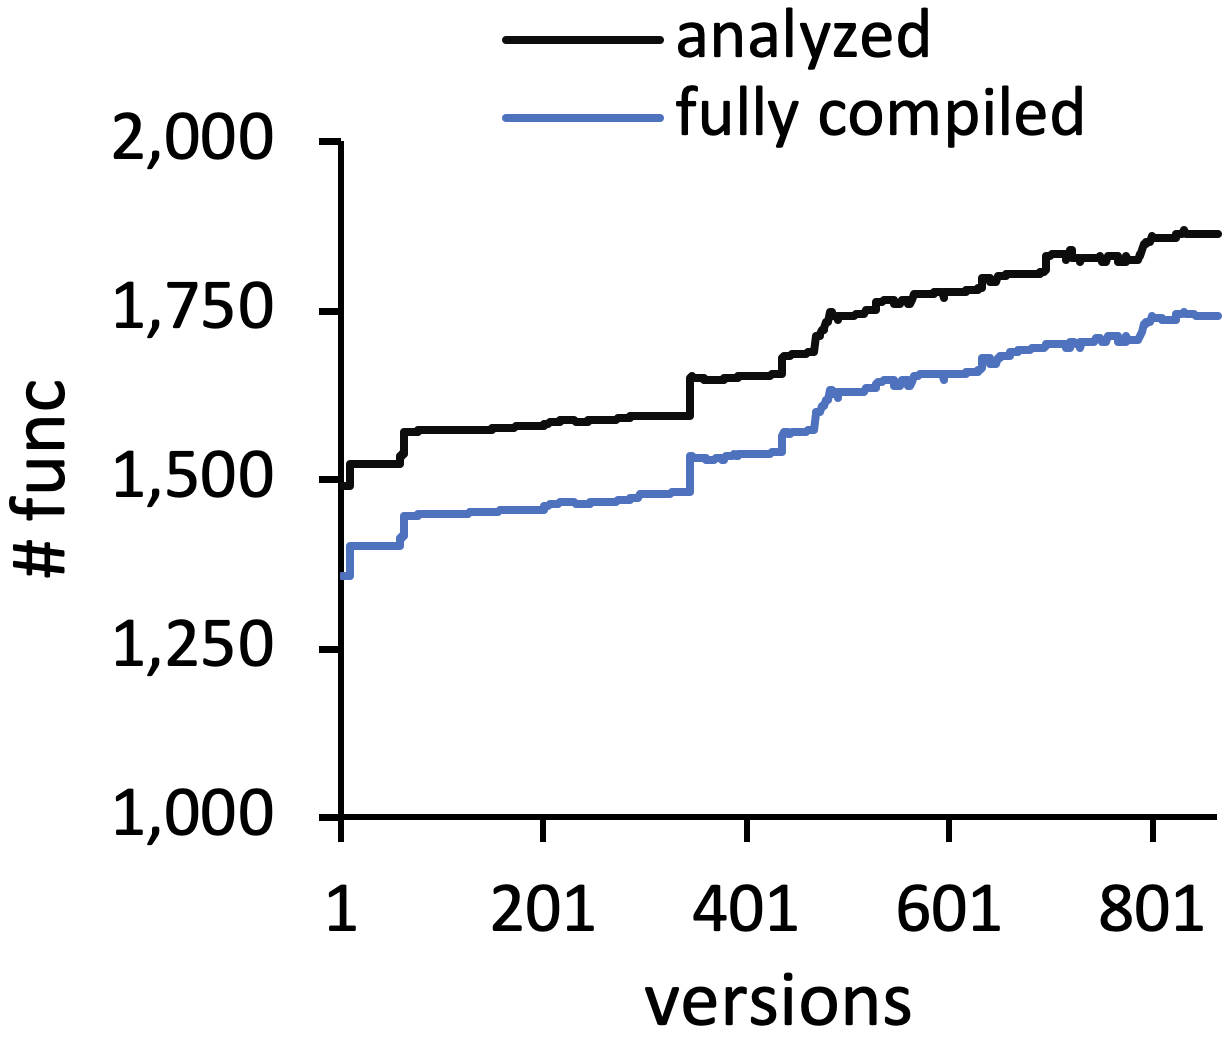
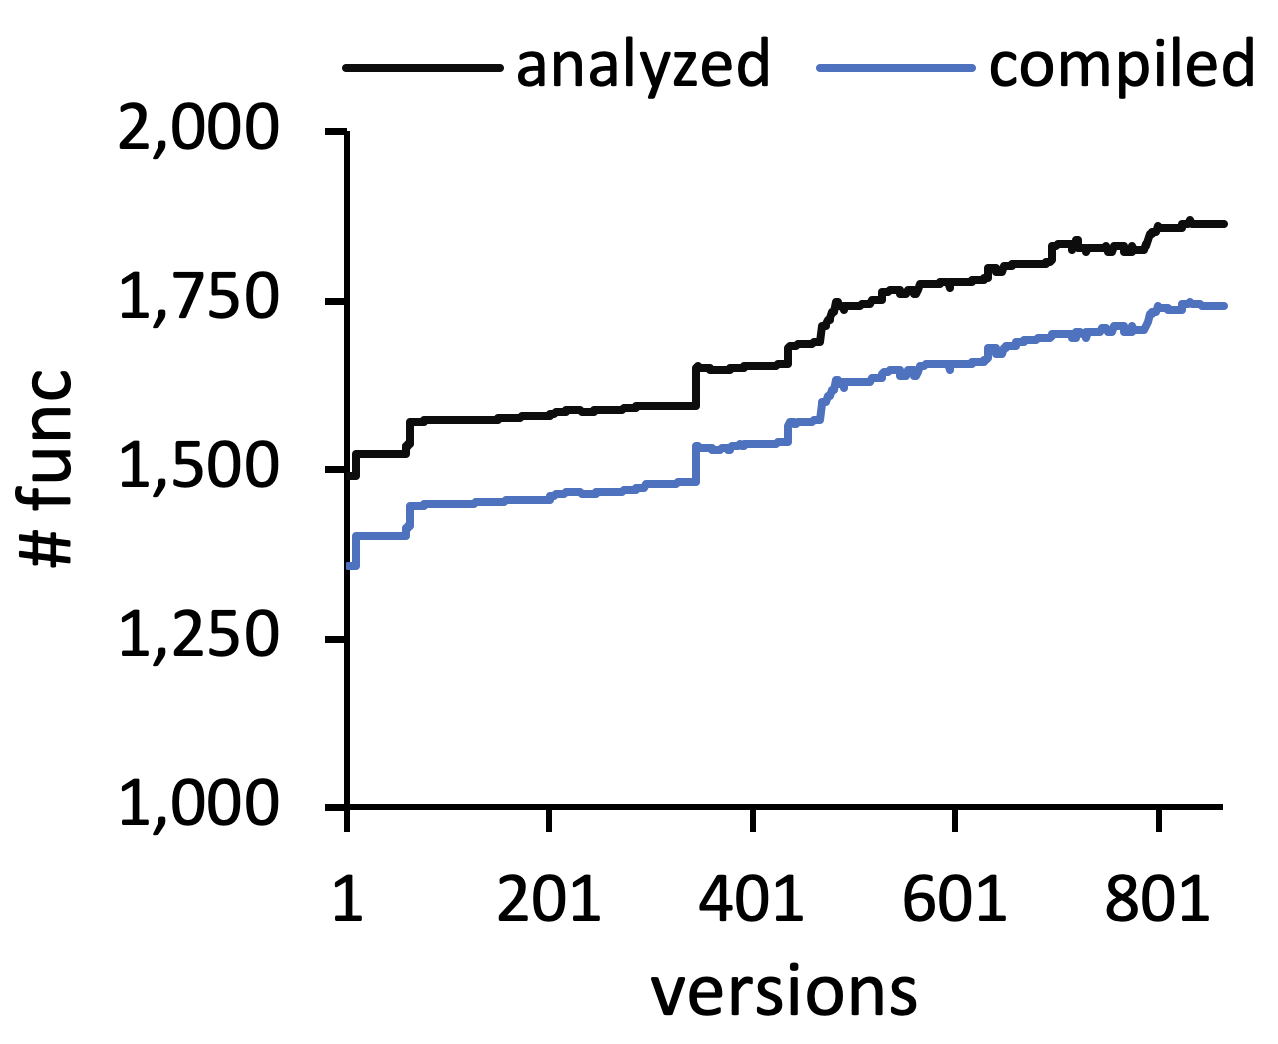
[ASE21] Updating eval

diff --git a/paper/ase21/eval.tex b/paper/ase21/eval.tex
@@ -1,5 +1,72 @@
 \section{Evaluation}\label{sec:eval}
 
+\begin{table*}
+  \centering
+  \caption{The analysis precision of $\tool$ without refinement
+  (\stextsf{no-refine}), with refinement (\stextsf{refine}), and their
+  difference ($\Delta$)}
+  \label{table:precision}
+  \resizebox{\textwidth}{!}{%
+    \begin{tabular}{c|c?r@{~}c@{~}r@{~}l@{}r|r@{~}c@{~}r@{~}l@{}r?r@{~}c@{~}r@{~}l@{}r|r@{~}c@{~}r@{~}l@{}r?r@{~}c@{~}r@{~}l@{}r|r@{~}c@{~}r@{~}l@{}r}
+      \multirow{2}{*}{\textbf{Checker}} &
+      \multirow{2}{*}{\textbf{Bug Kind}} &
+      \multicolumn{30}{c}{
+        \textbf{Precision = (\# True Bugs) / (\# Detected Bugs)}
+      }\\\cline{3-32} &&
+      \multicolumn{10}{c?}{no-refine} &
+      \multicolumn{10}{c?}{refine} &
+      \multicolumn{10}{c}{$\Delta$}\\
+
+      \specialrule{.1em}{.0em}{.0em}
+
+      \myrowc
+      {\mr{2}{\stextsf{Reference}}}
+      {\me{2}{60}{125}{48.0}} {\me{2}{61}{98}{62.2}} {\me{2}{+1}{-27}{+14.2}}
+      {\mr{1}{\stextsf{UnknownVar}}}
+      {\me{1}{17}{81}{21.0}} {\me{1}{17}{53}{32.1}} {\me{1}{}{-28}{+11.1}}
+
+      \myrowh
+      {\mr{1}{\stextsf{DuplicatedVar}}}
+      {\me{1}{43}{44}{97.7}} {\me{1}{44}{45}{97.8}} {\me{1}{+1}{+1}{+0.1}}
+
+      \hline
+
+      \smyrowc
+      {\mr{1}{\stextsf{Arity}}}
+      {\mr{1}{\stextsf{MissParam}}}
+      {\me{1}{4}{4}{100.0}} {\me{1}{4}{4}{100.0}} {\me{1}{}{}{}}
+
+      \hline
+
+      \smyrowc
+      {\mr{1}{\stextsf{Assertion}}}
+      {\mr{1}{\stextsf{Assertion}}}
+      {\me{1}{5}{57}{8.8}} {\me{1}{5}{31}{16.1}} {\me{1}{}{-26}{+7.4}}
+
+      \hline
+
+      \myrowc
+      {\mr{2}{\stextsf{Operand}}}
+      {\me{2}{22}{113}{19.5}} {\me{2}{22}{44}{50.0}} {\me{2}{}{-69}{+30.5}}
+      {\mr{1}{\stextsf{NoNumber}}}
+      {\me{1}{2}{65}{3.1}} {\me{1}{2}{6}{33.3}} {\me{1}{}{-59}{+30.3}}
+
+      \myrowh
+      {\mr{1}{\stextsf{Abrupt}}}
+      {\me{1}{20}{48}{41.7}} {\me{1}{20}{38}{52.6}} {\me{1}{}{-10}{+11.0}}
+
+      \specialrule{.1em}{.0em}{.0em}
+
+      \mysrowh
+      {\textbf{Total}}
+      {91 / 299 (30.4\%)}{92 / 177 (52.0\%)}{+1 / -122 (+21.5\%)}
+
+    \end{tabular}
+  }
+  \vspace*{-1.5em}
+\end{table*}
+
+
 We implemented $\tool$ as an open-source tool~\footnote{The link is anonymized
 because of a double-blind review process} in Scala by extending $\jiset$, a
 JavaScript IR-based semantics extraction toolchain, with a worklist-based
@@ -9,7 +76,7 @@ instructions, our tool only reports type-related specification bugs detected in
 fully compiled abstract algorithms.  For built-in libraries, we only targeted
 abstract algorithms of essential built-in objects: \jscode{Array},
 \jscode{Object}, \jscode{Function}, \jscode{Math}, \jscode{Proxy}, and objects
-for primitive types.
+for JavaScript primitive types.
 
 To evaluate $\tool$, we answer the following research questions:
 \begin{itemize}
@@ -35,22 +102,23 @@ RAM.
 Figure~\ref{fig:stat} shows four statistics of type analysis using $\tool$ for
 864 versions of ECMAScript: (a) the number of analyzed functions, (b) the number
 of flow- and type-sensitive views, (c) the number of worklist iterations, and
-(d) the analysis time.  For each version of ECMAScript, \inred{1,999.9}
-functions (\stextsf{func}) are analyzed and \inred{1,999.9} functions among them
-are fully compiled (\stextsf{full-func}) on average.  Since the compile rules in
-$\jiset$ is more suitable for recent versions, the number of fully compiled
-functions in older versions are less than in more recent versions.  $\tool$
-keeps different abstract environments for each functions divided by flow- and
-type-sensitive views.  In the analysis result, \inred{1.3}M views existed for
-each version and \inred{1.3}K views existed for each function on average.
+(d) the analysis time.  For each version of ECMAScript, \inred{1,689.6}
+functions (\stextsf{analyzed}) are analyzed and \inred{1,570.0} functions among
+them are fully compiled (\stextsf{compiled}) on average.  Since ECMAScript has
+gradually evolved for three years, \inred{1,357} out of \inred{1,490} analyzed
+functions are fully compiled at the first version in 2018 but \inred{1741} out
+of \inred{1,863} analyzed functions are fully compiled in the latest version.
+$\tool$ divides functions to flow- and type-sensitive views.  On average,
+\inred{91.2}K views existed for each version and \inred{53.9} views existed for
+each function.
 
 We measured performance of $\tool$ based on the number of iterations for
 worklist algorithm and the analysis time.  For each version of ECMAScript,
-$\tool$ took \inred{300.0} seconds with \inred{19,999.9} iterations of worklist
-algorithm on average.  The analysis time consists of \inred{10.0} seconds for
-the specification extraction (\stextsf{extract} with gray bars), \inred{340.0}
-seconds for the type analysis (\stextsf{analyze} with blue bars), \inred{10.0}
-seconds for the bug detection (\stextsf{detect} with red bars).
+$\tool$ took \inred{136.0} seconds with \inred{298.8}K iterations of worklist
+algorithm on average.  The average analysis time consists of \inred{8.0} seconds
+for the specification extraction (\stextsf{extract} with gray bars),
+\inred{127.0} seconds for the type analysis (\stextsf{analyze} with blue bars),
+\inred{0.7} seconds for the bug detection (\stextsf{detect} with red bars).
 
 
 \subsection{Precision}\label{sec:precision}
@@ -78,94 +146,28 @@ seconds for the bug detection (\stextsf{detect} with red bars).
   \label{fig:ttl}
 \end{figure}
 
-\begin{table*}
-  \centering
-  \caption{The analysis precision of $\tool$ without refinement
-  (\stextsf{no-refine}), with refinement (\stextsf{refine}), and their
-  difference ($\Delta$)}
-  \label{table:precision}
-  \resizebox{\textwidth}{!}{%
-    \begin{tabular}{c|c?r@{~}c@{~}l@{~}l|r@{~}c@{~}l@{~}l?r@{~}c@{~}l@{~}l|r@{~}c@{~}l@{~}l?r@{~}c@{~}l@{~}l|r@{~}c@{~}l@{~}l}
-      \multirow{2}{*}{\textbf{Checker}} &
-      \multirow{2}{*}{\textbf{Bug Kind}} &
-      \multicolumn{24}{c}{
-        \textbf{Precision = (\# True Bugs) / (\# Detected Bugs)}
-      }\\\cline{3-26} &&
-      \multicolumn{8}{c?}{no-refine} &
-      \multicolumn{8}{c?}{refine} &
-      \multicolumn{8}{c}{$\Delta$}\\
-
-      \specialrule{.1em}{.0em}{.0em}
-
-      \myrowc
-      {\mr{2}{\stextsf{Reference}}}
-      {\me{2}{60}{125}{48.0}} {\me{2}{61}{98}{62.2}} {\me{2}{+1}{-27}{+14.2}}
-      {\mr{1}{\stextsf{UnknownVar}}}
-      {\me{1}{17}{81}{21.0}} {\me{1}{17}{53}{32.1}} {\me{1}{-}{-28}{+11.1}}
-
-      \myrowh
-      {\mr{1}{\stextsf{DuplicatedVar}}}
-      {\me{1}{43}{44}{97.7}} {\me{1}{44}{45}{97.8}} {\me{1}{+1}{+1}{+0.1}}
-
-      \hline
-
-      \smyrowc
-      {\mr{1}{\stextsf{Arity}}}
-      {\mr{1}{\stextsf{MissParam}}}
-      {\me{1}{43}{44}{97.7}} {\me{1}{44}{45}{97.8}} {\me{1}{+1}{+1}{+0.1}}
-
-      \hline
-
-      \smyrowc
-      {\mr{1}{\stextsf{Assertion}}}
-      {\mr{1}{\stextsf{Assertion}}}
-      {\me{1}{5}{57}{8.8}} {\me{1}{5}{31}{16.1}} {\me{1}{-}{-26}{+7.4}}
-
-      \hline
-
-      \myrowc
-      {\mr{2}{\stextsf{Operand}}}
-      {\me{2}{22}{113}{19.5}} {\me{2}{22}{44}{50.0}} {\me{2}{-}{-69}{+30.5}}
-      {\mr{1}{\stextsf{NoNumber}}}
-      {\me{1}{2}{65}{3.1}} {\me{1}{2}{6}{33.3}} {\me{1}{-}{-59}{+30.3}}
-
-      \myrowh
-      {\mr{1}{\stextsf{Abrupt}}}
-      {\me{1}{20}{48}{41.7}} {\me{1}{20}{38}{52.6}} {\me{1}{-}{-10}{+11.0}}
-
-      \specialrule{.1em}{.0em}{.0em}
-
-      \mysrowh
-      {\textbf{Total}}
-      {91 / 299 (30.4\%)}{92 / 177 (52.0\%)}{+1 / -122 (+21.5\%)}
-
-    \end{tabular}
-  }
-  \vspace*{-1.5em}
-\end{table*}
-
-
 We measured the analysis precision based on the number of true bugs in
 type-related specification bugs detected by $\tool$.  As described in the
 \stextsf{refine} column of Table~\ref{table:precision}, the analysis precision
-is \inred{51.7}\% because it detected \inred{190} type-related bugs and
-\inred{89} bugs are true bugs among them.  The reference checker detected the
-largest number of bugs with \inred{51.7}\% precision; it found \inred{12} true
-reference bugs for \inred{32} unknown variables (\stextsf{UnknownVar}) and
-\inred{32} already defined variables (\stextsf{DuplicatedVar}). The arity
-checker and the assertion checker found \inred{12} missing parameters
-(\stextsf{MissParam}) with \inred{90.2}\% precision and \inred{12} assertion
-failures (\stextsf{Assertion}) with \inred{90.2}\% precision, respectively.
+is \inred{52.0}\% because it detected \inred{177} type-related bugs and
+\inred{92} bugs are true bugs among them.  The reference checker detected the
+largest number of bugs with \inred{62.2}\% precision; it found \inred{61} true
+reference bugs for \inred{17} unknown variables (\stextsf{UnknownVar}) and
+\inred{44} already defined variables (\stextsf{DuplicatedVar}). The arity
+checker and the assertion checker found \inred{4} missing parameters
+(\stextsf{MissParam}) with \inred{100.0}\% precision and \inred{5} assertion
+failures (\stextsf{Assertion}) with \inred{16.1}\% precision, respectively.
 Finally, the operand checker detected two different kinds of wrong typed operand
-bugs: \inred{12} non-numeric operand bugs (\stextsf{NoNumber}) for numeric
-operators with \inred{12.3}\% precision and \inred{12} unchecked abrupt
-completion bugs (\stextsf{Abrupt}) with \inred{12.3}\% precision.
+bugs: \inred{2} non-numeric operand bugs (\stextsf{NoNumber}) for numeric
+operators with \inred{33.3}\% precision and \inred{20} unchecked abrupt
+completion bugs (\stextsf{Abrupt}) with \inred{52.6}\% precision.
 
 Moreover, we extended $\tool$ to automatically extract more statistics of
 detected true bugs.  \inred{First, we checked that true bugs are created or
-resolved by whom as described in Figure~\ref{fig:author}.  Among \inred{89}
-true bugs, we cannot automatically know who created \inred{20}
-\textit{inherited} bugs, which are created before 2018.  For remaining
+resolved by whom as described in Figure~\ref{fig:author}.  Among \inred{92}
+true bugs, \inred{47} bugs are \textit{inherited}, which means that they are
+created before 2018, and \inred{14} bugs are newly found 
+
 \inred{20} bugs, only \inred{20} bugs are created by members of the Ecma
 Technical Committee 39 (TC39) but others (\inred{20} bugs) are created by
 outside contributors not committee members.  On the other hand, most of them

diff --git a/paper/ase21/macros.tex b/paper/ase21/macros.tex
@@ -256,10 +256,13 @@
 % table
 \newcommand{\mr}[2]{\multirow{#1}{*}{#2}}
 \newcommand{\me}[4]{
-  \mr{#1}{#2} &
-  \mr{#1}{/} &
-  \mr{#1}{#3} &
-  \mr{#1}{(#4\%)}
+  \!\!\!\!
+  \mr{#1}{\inred{#2}} &
+  \mr{#1}{\inred{/}} &
+  \mr{#1}{\inred{#3}} &
+  \mr{#1}{\inred{(}} &
+  \mr{#1}{\inred{#4\%)}}
+  \!\!\!\!\!\!
 }
 \newcommand{\myrowc}[8]{
   #1 &
@@ -272,18 +275,18 @@
   #8 \\
 }
 \newcommand{\myrowh}[4]{
-  \cline{2-2}\cline{7-10}\cline{15-18}\cline{23-26}
+  \cline{2-2}\cline{8-12}\cline{18-22}\cline{28-32}
   & #1 &
-  &&&& #2 &
-  &&&& #3 &
-  &&&& #4 \\
+  &&&&& #2 &
+  &&&&& #3 &
+  &&&&& #4 \\
 }
 \newcommand{\smyrowc}[5]{
   \myrowc{#1}{#3}{#4}{#5}{#2}{#3}{#4}{#5}
 }
 \newcommand{\mysrowh}[4]{
 \multicolumn{2}{c?}{#1}&
-\multicolumn{8}{c?}{#2}&
-\multicolumn{8}{c?}{#3}&
-\multicolumn{8}{c}{#4}\\
+\multicolumn{10}{c?}{\inred{#2}}&
+\multicolumn{10}{c?}{\inred{#3}}&
+\multicolumn{10}{c}{\inred{#4}}\\
 }

diff --git a/paper/ase21/intro.tex b/paper/ase21/intro.tex
@@ -103,7 +103,7 @@ The main contributions of this paper are as follows:
     precision.  We show that the refinement technique increases the analysis
     precision from \inred{30.4}\% to \inred{52.0}\% by removing \inred{122}
     false bugs and detecting \inred{one} more true bug.
-  \item We demonstrate the practicality of $\tool$. It takes \inred{136.1}
+  \item We demonstrate the practicality of $\tool$. It takes \inred{136.0}
     seconds on average to perform a type analysis for each version of ECMAScript and detected
     \inred{177} type-related specification bugs with \inred{52.0}\% precision;
     \inred{92} out of \inred{177} bugs are true bugs.  Among them, $\tool$ 

diff --git a/paper/ase21/abstract.tex b/paper/ase21/abstract.tex
@@ -26,7 +26,7 @@
   \textit{condition-based refinement} for type analysis, which prunes out
   infeasible abstract states using conditions of assertions and branches.  We
   evaluated $\tool$ with all 864 versions in the official ECMAScript repository
-  for the recent three years from 2018 to 2021.  $\tool$ took \inred{136.1}
+  for the recent three years from 2018 to 2021.  $\tool$ took \inred{136.0}
   seconds on average to perform type analysis for each version, and detected
   \inred{177} type-related specification bugs with \inred{52.0}\% precision;
   \inred{92} out of \inred{177} bugs are true bugs.  Among them, \inred{14}
